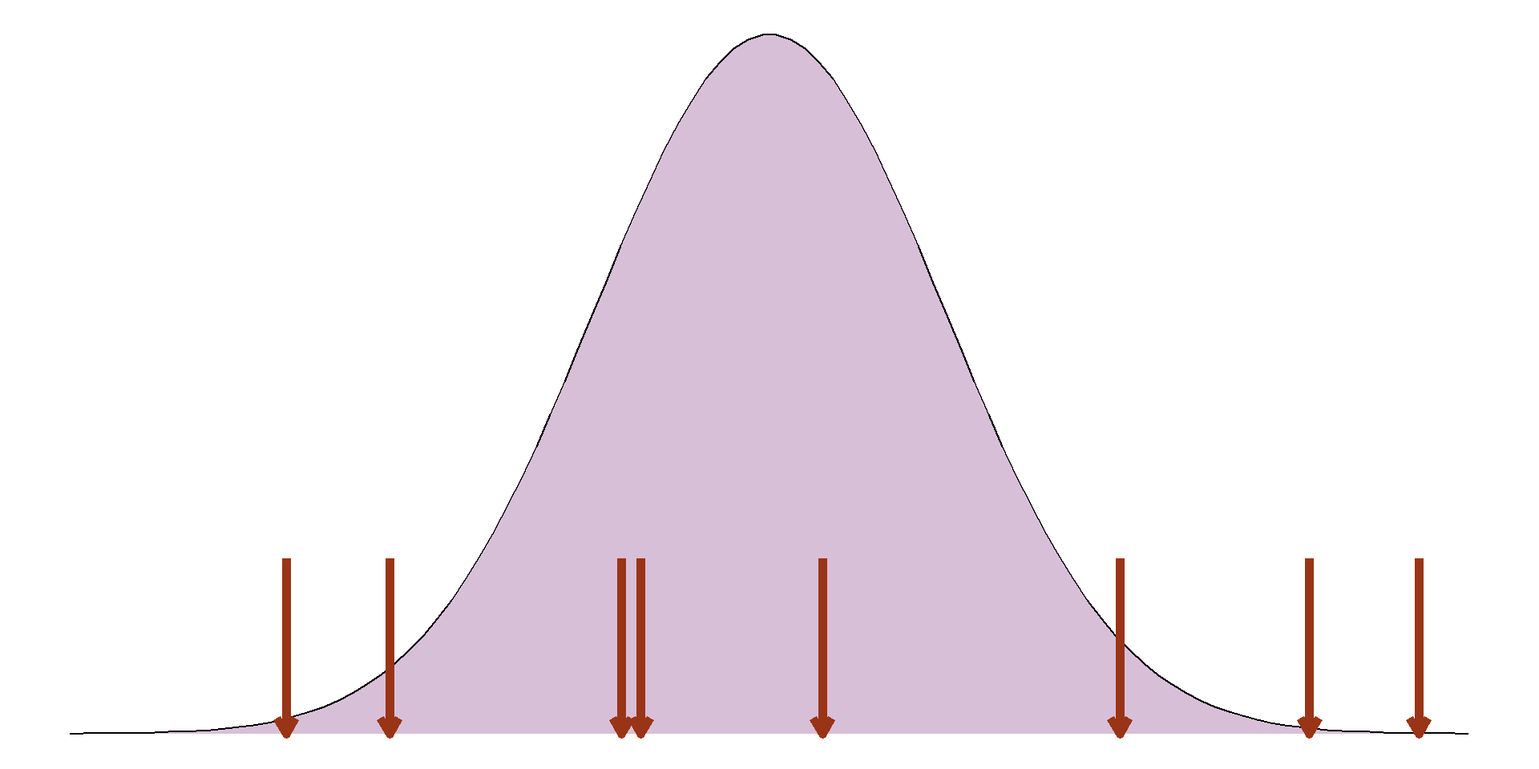
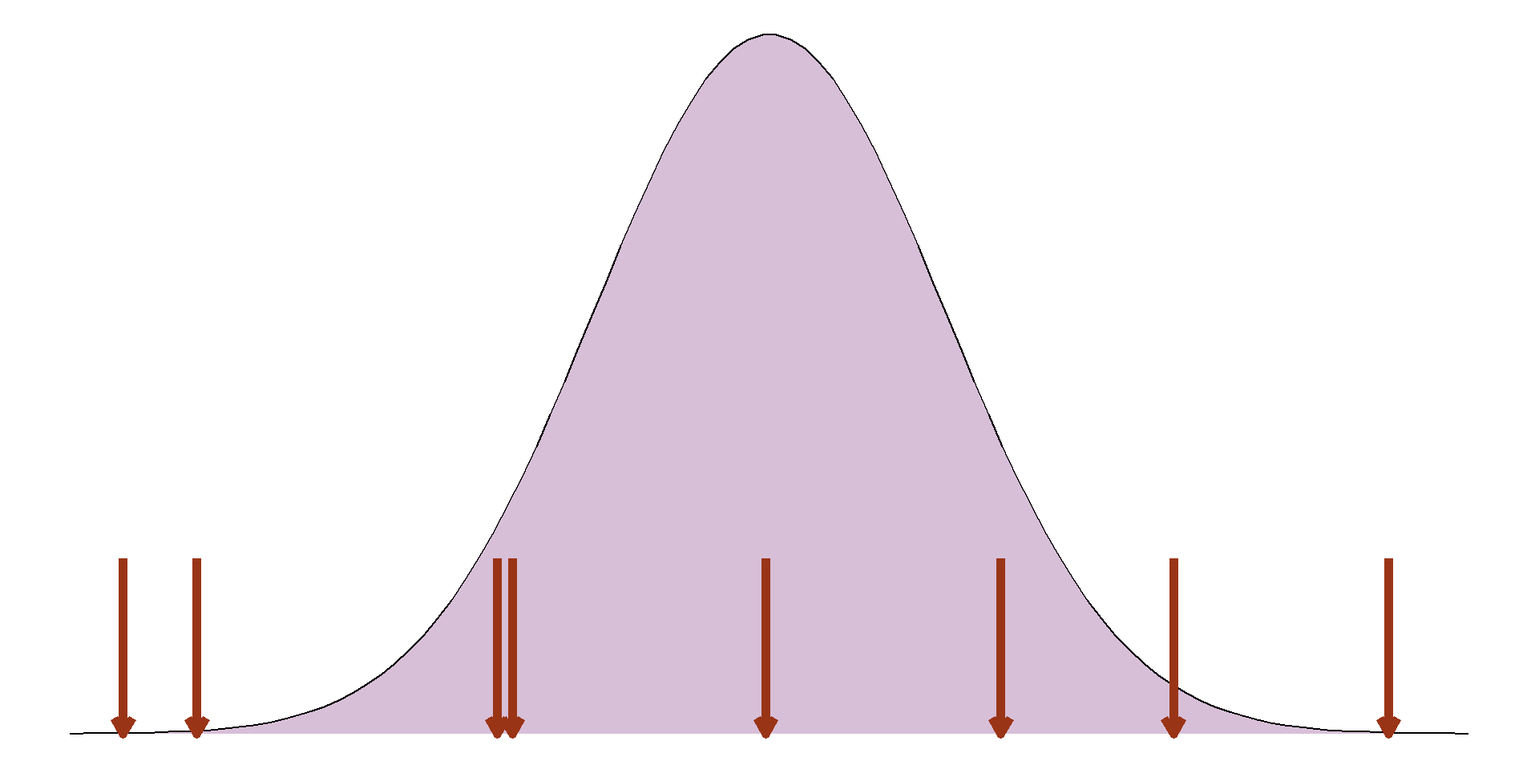
Add slides CLT

diff --git a/docs/part-2-slides.html b/docs/part-2-slides.html
@@ -516,6 +516,26 @@ Sophie Lee
 <section id="central-limit-theorem-10" class="slide level2">
 <h2>Central limit theorem</h2>
 
+<img data-src="part-2-slides_files/figure-revealjs/unnamed-chunk-12-1.png" class="quarto-figure quarto-figure-center r-stretch" width="960"></section>
+<section id="central-limit-theorem-11" class="slide level2">
+<h2>Central limit theorem</h2>
+
+<img data-src="part-2-slides_files/figure-revealjs/unnamed-chunk-13-1.png" class="quarto-figure quarto-figure-center r-stretch" width="960"></section>
+<section id="central-limit-theorem-12" class="slide level2">
+<h2>Central limit theorem</h2>
+
+<img data-src="part-2-slides_files/figure-revealjs/unnamed-chunk-14-1.png" class="quarto-figure quarto-figure-center r-stretch" width="960"></section>
+<section id="central-limit-theorem-13" class="slide level2">
+<h2>Central limit theorem</h2>
+
+<img data-src="part-2-slides_files/figure-revealjs/unnamed-chunk-15-1.png" class="quarto-figure quarto-figure-center r-stretch" width="960"></section>
+<section id="central-limit-theorem-14" class="slide level2">
+<h2>Central limit theorem</h2>
+
+<img data-src="part-2-slides_files/figure-revealjs/unnamed-chunk-16-1.png" class="quarto-figure quarto-figure-center r-stretch" width="960"></section>
+<section id="central-limit-theorem-15" class="slide level2">
+<h2>Central limit theorem</h2>
+
 <img data-src="part-2-slides_files/figure-revealjs/sd-to-se-1.png" class="quarto-figure quarto-figure-center r-stretch" width="960"></section>
 <section id="confidence-intervals" class="slide level2">
 <h2>Confidence intervals</h2>
@@ -774,15 +794,15 @@ Sophie Lee
 <section id="section-3" class="slide level2">
 <h2></h2>
 
-<img data-src="part-2-slides_files/figure-revealjs/unnamed-chunk-21-1.png" class="quarto-figure quarto-figure-center r-stretch" width="960"></section>
+<img data-src="part-2-slides_files/figure-revealjs/unnamed-chunk-26-1.png" class="quarto-figure quarto-figure-center r-stretch" width="960"></section>
 <section id="section-4" class="slide level2">
 <h2></h2>
 
-<img data-src="part-2-slides_files/figure-revealjs/unnamed-chunk-22-1.png" class="quarto-figure quarto-figure-center r-stretch" width="960"></section>
+<img data-src="part-2-slides_files/figure-revealjs/unnamed-chunk-27-1.png" class="quarto-figure quarto-figure-center r-stretch" width="960"></section>
 <section id="section-5" class="slide level2">
 <h2></h2>
 
-<img data-src="part-2-slides_files/figure-revealjs/unnamed-chunk-23-1.png" class="quarto-figure quarto-figure-center r-stretch" width="960"></section></section>
+<img data-src="part-2-slides_files/figure-revealjs/unnamed-chunk-28-1.png" class="quarto-figure quarto-figure-center r-stretch" width="960"></section></section>
 <section>
 <section id="section-6" class="title-slide slide level1 chapter-theme center">
 <h1></h1>
@@ -799,7 +819,7 @@ Sophie Lee
 <h2></h2>
 <div class="cell" data-layout-align="center">
 <div class="cell-output-display">
-<div class="countdown" id="timer_36ce9176" data-update-every="1" tabindex="0" style="top:0;right:0;font-size:100px;">
+<div class="countdown" id="timer_267225f5" data-update-every="1" tabindex="0" style="top:0;right:0;font-size:100px;">
 <div class="countdown-controls"><button class="countdown-bump-down">−</button><button class="countdown-bump-up">+</button></div>
 <code class="countdown-time"><span class="countdown-digits minutes">10</span><span class="countdown-digits colon">:</span><span class="countdown-digits seconds">00</span></code>
 </div>
@@ -972,7 +992,7 @@ Sophie Lee
 <p>Body mass = -5780.83 + 49.69 <span class="math inline">\(\times\)</span> flipper length</p>
 <div class="cell" data-layout-align="center">
 <div class="cell-output-display">
-<div class="tabwid"><style>.cl-3499b948{}.cl-346c0aac{font-family:'Arial';font-size:60pt;font-weight:bold;font-style:normal;text-decoration:none;color:rgba(34, 34, 34, 1.00);background-color:transparent;}.cl-346c0ae8{font-family:'Arial';font-size:48pt;font-weight:normal;font-style:normal;text-decoration:none;color:rgba(34, 34, 34, 1.00);background-color:transparent;}.cl-348b10d2{margin:0;text-align:left;border-bottom: 0 solid rgba(0, 0, 0, 1.00);border-top: 0 solid rgba(0, 0, 0, 1.00);border-left: 0 solid rgba(0, 0, 0, 1.00);border-right: 0 solid rgba(0, 0, 0, 1.00);padding-bottom:5pt;padding-top:5pt;padding-left:5pt;padding-right:5pt;line-height: 1;background-color:transparent;}.cl-348b10e6{margin:0;text-align:right;border-bottom: 0 solid rgba(0, 0, 0, 1.00);border-top: 0 solid rgba(0, 0, 0, 1.00);border-left: 0 solid rgba(0, 0, 0, 1.00);border-right: 0 solid rgba(0, 0, 0, 1.00);padding-bottom:5pt;padding-top:5pt;padding-left:5pt;padding-right:5pt;line-height: 1;background-color:transparent;}.cl-348b10fa{margin:0;text-align:left;border-bottom: 0 solid rgba(0, 0, 0, 1.00);border-top: 0 solid rgba(0, 0, 0, 1.00);border-left: 0 solid rgba(0, 0, 0, 1.00);border-right: 0 solid rgba(0, 0, 0, 1.00);padding-bottom:5pt;padding-top:5pt;padding-left:5pt;padding-right:5pt;line-height: 1.2;background-color:transparent;}.cl-348b10fb{margin:0;text-align:right;border-bottom: 0 solid rgba(0, 0, 0, 1.00);border-top: 0 solid rgba(0, 0, 0, 1.00);border-left: 0 solid rgba(0, 0, 0, 1.00);border-right: 0 solid rgba(0, 0, 0, 1.00);padding-bottom:5pt;padding-top:5pt;padding-left:5pt;padding-right:5pt;line-height: 1.2;background-color:transparent;}.cl-348b9e26{width:0.787in;background-color:rgba(253, 221, 182, 1.00);vertical-align: middle;border-bottom: 1.5pt solid rgba(102, 102, 102, 1.00);border-top: 1.5pt solid rgba(102, 102, 102, 1.00);border-left: 0 solid rgba(0, 0, 0, 1.00);border-right: 0 solid rgba(0, 0, 0, 1.00);margin-bottom:0;margin-top:0;margin-left:0;margin-right:0;}.cl-348b9e30{width:1.181in;background-color:rgba(253, 221, 182, 1.00);vertical-align: middle;border-bottom: 1.5pt solid rgba(102, 102, 102, 1.00);border-top: 1.5pt solid rgba(102, 102, 102, 1.00);border-left: 0 solid rgba(0, 0, 0, 1.00);border-right: 0 solid rgba(0, 0, 0, 1.00);margin-bottom:0;margin-top:0;margin-left:0;margin-right:0;}.cl-348b9e44{width:6.815in;background-color:rgba(253, 221, 182, 1.00);vertical-align: middle;border-bottom: 1.5pt solid rgba(102, 102, 102, 1.00);border-top: 1.5pt solid rgba(102, 102, 102, 1.00);border-left: 0 solid rgba(0, 0, 0, 1.00);border-right: 0 solid rgba(0, 0, 0, 1.00);margin-bottom:0;margin-top:0;margin-left:0;margin-right:0;}.cl-348b9e45{width:1.969in;background-color:rgba(253, 221, 182, 1.00);vertical-align: middle;border-bottom: 1.5pt solid rgba(102, 102, 102, 1.00);border-top: 1.5pt solid rgba(102, 102, 102, 1.00);border-left: 0 solid rgba(0, 0, 0, 1.00);border-right: 0 solid rgba(0, 0, 0, 1.00);margin-bottom:0;margin-top:0;margin-left:0;margin-right:0;}.cl-348b9e4e{width:0.787in;background-color:rgba(253, 221, 182, 1.00);vertical-align: middle;border-bottom: 0 solid rgba(0, 0, 0, 1.00);border-top: 0 solid rgba(0, 0, 0, 1.00);border-left: 0 solid rgba(0, 0, 0, 1.00);border-right: 0 solid rgba(0, 0, 0, 1.00);margin-bottom:0;margin-top:0;margin-left:0;margin-right:0;}.cl-348b9e4f{width:1.181in;background-color:rgba(253, 221, 182, 1.00);vertical-align: middle;border-bottom: 0 solid rgba(0, 0, 0, 1.00);border-top: 0 solid rgba(0, 0, 0, 1.00);border-left: 0 solid rgba(0, 0, 0, 1.00);border-right: 0 solid rgba(0, 0, 0, 1.00);margin-bottom:0;margin-top:0;margin-left:0;margin-right:0;}.cl-348b9e58{width:6.815in;background-color:rgba(253, 221, 182, 1.00);vertical-align: middle;border-bottom: 0 solid rgba(0, 0, 0, 1.00);border-top: 0 solid rgba(0, 0, 0, 1.00);border-left: 0 solid rgba(0, 0, 0, 1.00);border-right: 0 solid rgba(0, 0, 0, 1.00);margin-bottom:0;margin-top:0;margin-left:0;margin-right:0;}.cl-348b9e59{width:1.969in;background-color:rgba(253, 221, 182, 1.00);vertical-align: middle;border-bottom: 0 solid rgba(0, 0, 0, 1.00);border-top: 0 solid rgba(0, 0, 0, 1.00);border-left: 0 solid rgba(0, 0, 0, 1.00);border-right: 0 solid rgba(0, 0, 0, 1.00);margin-bottom:0;margin-top:0;margin-left:0;margin-right:0;}.cl-348b9e62{width:0.787in;background-color:rgba(253, 221, 182, 1.00);vertical-align: middle;border-bottom: 1.5pt solid rgba(102, 102, 102, 1.00);border-top: 0 solid rgba(0, 0, 0, 1.00);border-left: 0 solid rgba(0, 0, 0, 1.00);border-right: 0 solid rgba(0, 0, 0, 1.00);margin-bottom:0;margin-top:0;margin-left:0;margin-right:0;}.cl-348b9e6c{width:1.181in;background-color:rgba(253, 221, 182, 1.00);vertical-align: middle;border-bottom: 1.5pt solid rgba(102, 102, 102, 1.00);border-top: 0 solid rgba(0, 0, 0, 1.00);border-left: 0 solid rgba(0, 0, 0, 1.00);border-right: 0 solid rgba(0, 0, 0, 1.00);margin-bottom:0;margin-top:0;margin-left:0;margin-right:0;}.cl-348b9e6d{width:6.815in;background-color:rgba(253, 221, 182, 1.00);vertical-align: middle;border-bottom: 1.5pt solid rgba(102, 102, 102, 1.00);border-top: 0 solid rgba(0, 0, 0, 1.00);border-left: 0 solid rgba(0, 0, 0, 1.00);border-right: 0 solid rgba(0, 0, 0, 1.00);margin-bottom:0;margin-top:0;margin-left:0;margin-right:0;}.cl-348b9e76{width:1.969in;background-color:rgba(253, 221, 182, 1.00);vertical-align: middle;border-bottom: 1.5pt solid rgba(102, 102, 102, 1.00);border-top: 0 solid rgba(0, 0, 0, 1.00);border-left: 0 solid rgba(0, 0, 0, 1.00);border-right: 0 solid rgba(0, 0, 0, 1.00);margin-bottom:0;margin-top:0;margin-left:0;margin-right:0;}</style><table data-quarto-disable-processing="true" class="cl-3499b948"><thead><tr style="overflow-wrap:break-word;"><th class="cl-348b9e26"><p class="cl-348b10d2"><span class="cl-346c0aac"></span></p></th><th class="cl-348b9e30"><p class="cl-348b10e6"><span class="cl-346c0aac">Coefficient estimates</span></p></th><th class="cl-348b9e44"><p class="cl-348b10e6"><span class="cl-346c0aac">95% confidence </span><br><span class="cl-346c0aac">interval</span></p></th><th class="cl-348b9e45"><p class="cl-348b10e6"><span class="cl-346c0aac">p-value</span></p></th></tr></thead><tbody><tr style="overflow-wrap:break-word;"><td class="cl-348b9e4e"><p class="cl-348b10fa"><span class="cl-346c0ae8">Intercept</span></p></td><td class="cl-348b9e4f"><p class="cl-348b10fb"><span class="cl-346c0ae8">-5,780.83</span></p></td><td class="cl-348b9e58"><p class="cl-348b10fb"><span class="cl-346c0ae8">[-6382.36, -5179.3]</span></p></td><td class="cl-348b9e59"><p class="cl-348b10fb"><span class="cl-346c0ae8">&lt;0.001</span></p></td></tr><tr style="overflow-wrap:break-word;"><td class="cl-348b9e62"><p class="cl-348b10fa"><span class="cl-346c0ae8">Flipper length</span></p></td><td class="cl-348b9e6c"><p class="cl-348b10fb"><span class="cl-346c0ae8">49.69</span></p></td><td class="cl-348b9e6d"><p class="cl-348b10fb"><span class="cl-346c0ae8">[46.7, 52.67]</span></p></td><td class="cl-348b9e76"><p class="cl-348b10fb"><span class="cl-346c0ae8">&lt;0.001</span></p></td></tr></tbody></table></div>
+<div class="tabwid"><style>.cl-dc7405c2{}.cl-dc59c7ac{font-family:'Arial';font-size:60pt;font-weight:bold;font-style:normal;text-decoration:none;color:rgba(34, 34, 34, 1.00);background-color:transparent;}.cl-dc59c7d4{font-family:'Arial';font-size:48pt;font-weight:normal;font-style:normal;text-decoration:none;color:rgba(34, 34, 34, 1.00);background-color:transparent;}.cl-dc629b3e{margin:0;text-align:left;border-bottom: 0 solid rgba(0, 0, 0, 1.00);border-top: 0 solid rgba(0, 0, 0, 1.00);border-left: 0 solid rgba(0, 0, 0, 1.00);border-right: 0 solid rgba(0, 0, 0, 1.00);padding-bottom:5pt;padding-top:5pt;padding-left:5pt;padding-right:5pt;line-height: 1;background-color:transparent;}.cl-dc629b52{margin:0;text-align:right;border-bottom: 0 solid rgba(0, 0, 0, 1.00);border-top: 0 solid rgba(0, 0, 0, 1.00);border-left: 0 solid rgba(0, 0, 0, 1.00);border-right: 0 solid rgba(0, 0, 0, 1.00);padding-bottom:5pt;padding-top:5pt;padding-left:5pt;padding-right:5pt;line-height: 1;background-color:transparent;}.cl-dc629b5c{margin:0;text-align:left;border-bottom: 0 solid rgba(0, 0, 0, 1.00);border-top: 0 solid rgba(0, 0, 0, 1.00);border-left: 0 solid rgba(0, 0, 0, 1.00);border-right: 0 solid rgba(0, 0, 0, 1.00);padding-bottom:5pt;padding-top:5pt;padding-left:5pt;padding-right:5pt;line-height: 1.2;background-color:transparent;}.cl-dc629b66{margin:0;text-align:right;border-bottom: 0 solid rgba(0, 0, 0, 1.00);border-top: 0 solid rgba(0, 0, 0, 1.00);border-left: 0 solid rgba(0, 0, 0, 1.00);border-right: 0 solid rgba(0, 0, 0, 1.00);padding-bottom:5pt;padding-top:5pt;padding-left:5pt;padding-right:5pt;line-height: 1.2;background-color:transparent;}.cl-dc62fdd6{width:0.787in;background-color:rgba(253, 221, 182, 1.00);vertical-align: middle;border-bottom: 1.5pt solid rgba(102, 102, 102, 1.00);border-top: 1.5pt solid rgba(102, 102, 102, 1.00);border-left: 0 solid rgba(0, 0, 0, 1.00);border-right: 0 solid rgba(0, 0, 0, 1.00);margin-bottom:0;margin-top:0;margin-left:0;margin-right:0;}.cl-dc62fdea{width:1.181in;background-color:rgba(253, 221, 182, 1.00);vertical-align: middle;border-bottom: 1.5pt solid rgba(102, 102, 102, 1.00);border-top: 1.5pt solid rgba(102, 102, 102, 1.00);border-left: 0 solid rgba(0, 0, 0, 1.00);border-right: 0 solid rgba(0, 0, 0, 1.00);margin-bottom:0;margin-top:0;margin-left:0;margin-right:0;}.cl-dc62fdf4{width:6.815in;background-color:rgba(253, 221, 182, 1.00);vertical-align: middle;border-bottom: 1.5pt solid rgba(102, 102, 102, 1.00);border-top: 1.5pt solid rgba(102, 102, 102, 1.00);border-left: 0 solid rgba(0, 0, 0, 1.00);border-right: 0 solid rgba(0, 0, 0, 1.00);margin-bottom:0;margin-top:0;margin-left:0;margin-right:0;}.cl-dc62fdfe{width:1.969in;background-color:rgba(253, 221, 182, 1.00);vertical-align: middle;border-bottom: 1.5pt solid rgba(102, 102, 102, 1.00);border-top: 1.5pt solid rgba(102, 102, 102, 1.00);border-left: 0 solid rgba(0, 0, 0, 1.00);border-right: 0 solid rgba(0, 0, 0, 1.00);margin-bottom:0;margin-top:0;margin-left:0;margin-right:0;}.cl-dc62fe08{width:0.787in;background-color:rgba(253, 221, 182, 1.00);vertical-align: middle;border-bottom: 0 solid rgba(0, 0, 0, 1.00);border-top: 0 solid rgba(0, 0, 0, 1.00);border-left: 0 solid rgba(0, 0, 0, 1.00);border-right: 0 solid rgba(0, 0, 0, 1.00);margin-bottom:0;margin-top:0;margin-left:0;margin-right:0;}.cl-dc62fe12{width:1.181in;background-color:rgba(253, 221, 182, 1.00);vertical-align: middle;border-bottom: 0 solid rgba(0, 0, 0, 1.00);border-top: 0 solid rgba(0, 0, 0, 1.00);border-left: 0 solid rgba(0, 0, 0, 1.00);border-right: 0 solid rgba(0, 0, 0, 1.00);margin-bottom:0;margin-top:0;margin-left:0;margin-right:0;}.cl-dc62fe1c{width:6.815in;background-color:rgba(253, 221, 182, 1.00);vertical-align: middle;border-bottom: 0 solid rgba(0, 0, 0, 1.00);border-top: 0 solid rgba(0, 0, 0, 1.00);border-left: 0 solid rgba(0, 0, 0, 1.00);border-right: 0 solid rgba(0, 0, 0, 1.00);margin-bottom:0;margin-top:0;margin-left:0;margin-right:0;}.cl-dc62fe1d{width:1.969in;background-color:rgba(253, 221, 182, 1.00);vertical-align: middle;border-bottom: 0 solid rgba(0, 0, 0, 1.00);border-top: 0 solid rgba(0, 0, 0, 1.00);border-left: 0 solid rgba(0, 0, 0, 1.00);border-right: 0 solid rgba(0, 0, 0, 1.00);margin-bottom:0;margin-top:0;margin-left:0;margin-right:0;}.cl-dc62fe26{width:0.787in;background-color:rgba(253, 221, 182, 1.00);vertical-align: middle;border-bottom: 1.5pt solid rgba(102, 102, 102, 1.00);border-top: 0 solid rgba(0, 0, 0, 1.00);border-left: 0 solid rgba(0, 0, 0, 1.00);border-right: 0 solid rgba(0, 0, 0, 1.00);margin-bottom:0;margin-top:0;margin-left:0;margin-right:0;}.cl-dc62fe30{width:1.181in;background-color:rgba(253, 221, 182, 1.00);vertical-align: middle;border-bottom: 1.5pt solid rgba(102, 102, 102, 1.00);border-top: 0 solid rgba(0, 0, 0, 1.00);border-left: 0 solid rgba(0, 0, 0, 1.00);border-right: 0 solid rgba(0, 0, 0, 1.00);margin-bottom:0;margin-top:0;margin-left:0;margin-right:0;}.cl-dc62fe31{width:6.815in;background-color:rgba(253, 221, 182, 1.00);vertical-align: middle;border-bottom: 1.5pt solid rgba(102, 102, 102, 1.00);border-top: 0 solid rgba(0, 0, 0, 1.00);border-left: 0 solid rgba(0, 0, 0, 1.00);border-right: 0 solid rgba(0, 0, 0, 1.00);margin-bottom:0;margin-top:0;margin-left:0;margin-right:0;}.cl-dc62fe3a{width:1.969in;background-color:rgba(253, 221, 182, 1.00);vertical-align: middle;border-bottom: 1.5pt solid rgba(102, 102, 102, 1.00);border-top: 0 solid rgba(0, 0, 0, 1.00);border-left: 0 solid rgba(0, 0, 0, 1.00);border-right: 0 solid rgba(0, 0, 0, 1.00);margin-bottom:0;margin-top:0;margin-left:0;margin-right:0;}</style><table data-quarto-disable-processing="true" class="cl-dc7405c2"><thead><tr style="overflow-wrap:break-word;"><th class="cl-dc62fdd6"><p class="cl-dc629b3e"><span class="cl-dc59c7ac"></span></p></th><th class="cl-dc62fdea"><p class="cl-dc629b52"><span class="cl-dc59c7ac">Coefficient estimates</span></p></th><th class="cl-dc62fdf4"><p class="cl-dc629b52"><span class="cl-dc59c7ac">95% confidence </span><br><span class="cl-dc59c7ac">interval</span></p></th><th class="cl-dc62fdfe"><p class="cl-dc629b52"><span class="cl-dc59c7ac">p-value</span></p></th></tr></thead><tbody><tr style="overflow-wrap:break-word;"><td class="cl-dc62fe08"><p class="cl-dc629b5c"><span class="cl-dc59c7d4">Intercept</span></p></td><td class="cl-dc62fe12"><p class="cl-dc629b66"><span class="cl-dc59c7d4">-5,780.83</span></p></td><td class="cl-dc62fe1c"><p class="cl-dc629b66"><span class="cl-dc59c7d4">[-6382.36, -5179.3]</span></p></td><td class="cl-dc62fe1d"><p class="cl-dc629b66"><span class="cl-dc59c7d4">&lt;0.001</span></p></td></tr><tr style="overflow-wrap:break-word;"><td class="cl-dc62fe26"><p class="cl-dc629b5c"><span class="cl-dc59c7d4">Flipper length</span></p></td><td class="cl-dc62fe30"><p class="cl-dc629b66"><span class="cl-dc59c7d4">49.69</span></p></td><td class="cl-dc62fe31"><p class="cl-dc629b66"><span class="cl-dc59c7d4">[46.7, 52.67]</span></p></td><td class="cl-dc62fe3a"><p class="cl-dc629b66"><span class="cl-dc59c7d4">&lt;0.001</span></p></td></tr></tbody></table></div>
 </div>
 </div>
 </section>
@@ -1045,7 +1065,7 @@ Sophie Lee
 <p>Body mass = -5410.3 + 46.98 <span class="math inline">\(\times\)</span> flipper length + 347.85 <span class="math inline">\(\times\)</span> male</p>
 <div class="cell" data-layout-align="center">
 <div class="cell-output-display">
-<div class="tabwid"><style>.cl-36922dca{}.cl-367d98ba{font-family:'Arial';font-size:60pt;font-weight:bold;font-style:normal;text-decoration:none;color:rgba(34, 34, 34, 1.00);background-color:transparent;}.cl-367d98ce{font-family:'Arial';font-size:48pt;font-weight:normal;font-style:normal;text-decoration:none;color:rgba(34, 34, 34, 1.00);background-color:transparent;}.cl-36854a24{margin:0;text-align:left;border-bottom: 0 solid rgba(0, 0, 0, 1.00);border-top: 0 solid rgba(0, 0, 0, 1.00);border-left: 0 solid rgba(0, 0, 0, 1.00);border-right: 0 solid rgba(0, 0, 0, 1.00);padding-bottom:5pt;padding-top:5pt;padding-left:5pt;padding-right:5pt;line-height: 1;background-color:transparent;}.cl-36854a38{margin:0;text-align:right;border-bottom: 0 solid rgba(0, 0, 0, 1.00);border-top: 0 solid rgba(0, 0, 0, 1.00);border-left: 0 solid rgba(0, 0, 0, 1.00);border-right: 0 solid rgba(0, 0, 0, 1.00);padding-bottom:5pt;padding-top:5pt;padding-left:5pt;padding-right:5pt;line-height: 1;background-color:transparent;}.cl-36854a42{margin:0;text-align:left;border-bottom: 0 solid rgba(0, 0, 0, 1.00);border-top: 0 solid rgba(0, 0, 0, 1.00);border-left: 0 solid rgba(0, 0, 0, 1.00);border-right: 0 solid rgba(0, 0, 0, 1.00);padding-bottom:5pt;padding-top:5pt;padding-left:5pt;padding-right:5pt;line-height: 1.6;background-color:transparent;}.cl-36854a43{margin:0;text-align:right;border-bottom: 0 solid rgba(0, 0, 0, 1.00);border-top: 0 solid rgba(0, 0, 0, 1.00);border-left: 0 solid rgba(0, 0, 0, 1.00);border-right: 0 solid rgba(0, 0, 0, 1.00);padding-bottom:5pt;padding-top:5pt;padding-left:5pt;padding-right:5pt;line-height: 1.6;background-color:transparent;}.cl-36858750{width:0.787in;background-color:rgba(253, 221, 182, 1.00);vertical-align: middle;border-bottom: 1.5pt solid rgba(102, 102, 102, 1.00);border-top: 1.5pt solid rgba(102, 102, 102, 1.00);border-left: 0 solid rgba(0, 0, 0, 1.00);border-right: 0 solid rgba(0, 0, 0, 1.00);margin-bottom:0;margin-top:0;margin-left:0;margin-right:0;}.cl-36858764{width:1.181in;background-color:rgba(253, 221, 182, 1.00);vertical-align: middle;border-bottom: 1.5pt solid rgba(102, 102, 102, 1.00);border-top: 1.5pt solid rgba(102, 102, 102, 1.00);border-left: 0 solid rgba(0, 0, 0, 1.00);border-right: 0 solid rgba(0, 0, 0, 1.00);margin-bottom:0;margin-top:0;margin-left:0;margin-right:0;}.cl-36858765{width:6.815in;background-color:rgba(253, 221, 182, 1.00);vertical-align: middle;border-bottom: 1.5pt solid rgba(102, 102, 102, 1.00);border-top: 1.5pt solid rgba(102, 102, 102, 1.00);border-left: 0 solid rgba(0, 0, 0, 1.00);border-right: 0 solid rgba(0, 0, 0, 1.00);margin-bottom:0;margin-top:0;margin-left:0;margin-right:0;}.cl-3685876e{width:1.969in;background-color:rgba(253, 221, 182, 1.00);vertical-align: middle;border-bottom: 1.5pt solid rgba(102, 102, 102, 1.00);border-top: 1.5pt solid rgba(102, 102, 102, 1.00);border-left: 0 solid rgba(0, 0, 0, 1.00);border-right: 0 solid rgba(0, 0, 0, 1.00);margin-bottom:0;margin-top:0;margin-left:0;margin-right:0;}.cl-36858778{width:0.787in;background-color:rgba(253, 221, 182, 1.00);vertical-align: middle;border-bottom: 0 solid rgba(0, 0, 0, 1.00);border-top: 0 solid rgba(0, 0, 0, 1.00);border-left: 0 solid rgba(0, 0, 0, 1.00);border-right: 0 solid rgba(0, 0, 0, 1.00);margin-bottom:0;margin-top:0;margin-left:0;margin-right:0;}.cl-36858782{width:1.181in;background-color:rgba(253, 221, 182, 1.00);vertical-align: middle;border-bottom: 0 solid rgba(0, 0, 0, 1.00);border-top: 0 solid rgba(0, 0, 0, 1.00);border-left: 0 solid rgba(0, 0, 0, 1.00);border-right: 0 solid rgba(0, 0, 0, 1.00);margin-bottom:0;margin-top:0;margin-left:0;margin-right:0;}.cl-3685878c{width:6.815in;background-color:rgba(253, 221, 182, 1.00);vertical-align: middle;border-bottom: 0 solid rgba(0, 0, 0, 1.00);border-top: 0 solid rgba(0, 0, 0, 1.00);border-left: 0 solid rgba(0, 0, 0, 1.00);border-right: 0 solid rgba(0, 0, 0, 1.00);margin-bottom:0;margin-top:0;margin-left:0;margin-right:0;}.cl-3685878d{width:1.969in;background-color:rgba(253, 221, 182, 1.00);vertical-align: middle;border-bottom: 0 solid rgba(0, 0, 0, 1.00);border-top: 0 solid rgba(0, 0, 0, 1.00);border-left: 0 solid rgba(0, 0, 0, 1.00);border-right: 0 solid rgba(0, 0, 0, 1.00);margin-bottom:0;margin-top:0;margin-left:0;margin-right:0;}.cl-36858796{width:0.787in;background-color:rgba(253, 221, 182, 1.00);vertical-align: middle;border-bottom: 0 solid rgba(0, 0, 0, 1.00);border-top: 0 solid rgba(0, 0, 0, 1.00);border-left: 0 solid rgba(0, 0, 0, 1.00);border-right: 0 solid rgba(0, 0, 0, 1.00);margin-bottom:0;margin-top:0;margin-left:0;margin-right:0;}.cl-368587a0{width:1.181in;background-color:rgba(253, 221, 182, 1.00);vertical-align: middle;border-bottom: 0 solid rgba(0, 0, 0, 1.00);border-top: 0 solid rgba(0, 0, 0, 1.00);border-left: 0 solid rgba(0, 0, 0, 1.00);border-right: 0 solid rgba(0, 0, 0, 1.00);margin-bottom:0;margin-top:0;margin-left:0;margin-right:0;}.cl-368587a1{width:6.815in;background-color:rgba(253, 221, 182, 1.00);vertical-align: middle;border-bottom: 0 solid rgba(0, 0, 0, 1.00);border-top: 0 solid rgba(0, 0, 0, 1.00);border-left: 0 solid rgba(0, 0, 0, 1.00);border-right: 0 solid rgba(0, 0, 0, 1.00);margin-bottom:0;margin-top:0;margin-left:0;margin-right:0;}.cl-368587aa{width:1.969in;background-color:rgba(253, 221, 182, 1.00);vertical-align: middle;border-bottom: 0 solid rgba(0, 0, 0, 1.00);border-top: 0 solid rgba(0, 0, 0, 1.00);border-left: 0 solid rgba(0, 0, 0, 1.00);border-right: 0 solid rgba(0, 0, 0, 1.00);margin-bottom:0;margin-top:0;margin-left:0;margin-right:0;}.cl-368587b4{width:0.787in;background-color:rgba(253, 221, 182, 1.00);vertical-align: middle;border-bottom: 1.5pt solid rgba(102, 102, 102, 1.00);border-top: 0 solid rgba(0, 0, 0, 1.00);border-left: 0 solid rgba(0, 0, 0, 1.00);border-right: 0 solid rgba(0, 0, 0, 1.00);margin-bottom:0;margin-top:0;margin-left:0;margin-right:0;}.cl-368587b5{width:1.181in;background-color:rgba(253, 221, 182, 1.00);vertical-align: middle;border-bottom: 1.5pt solid rgba(102, 102, 102, 1.00);border-top: 0 solid rgba(0, 0, 0, 1.00);border-left: 0 solid rgba(0, 0, 0, 1.00);border-right: 0 solid rgba(0, 0, 0, 1.00);margin-bottom:0;margin-top:0;margin-left:0;margin-right:0;}.cl-368587be{width:6.815in;background-color:rgba(253, 221, 182, 1.00);vertical-align: middle;border-bottom: 1.5pt solid rgba(102, 102, 102, 1.00);border-top: 0 solid rgba(0, 0, 0, 1.00);border-left: 0 solid rgba(0, 0, 0, 1.00);border-right: 0 solid rgba(0, 0, 0, 1.00);margin-bottom:0;margin-top:0;margin-left:0;margin-right:0;}.cl-36858818{width:1.969in;background-color:rgba(253, 221, 182, 1.00);vertical-align: middle;border-bottom: 1.5pt solid rgba(102, 102, 102, 1.00);border-top: 0 solid rgba(0, 0, 0, 1.00);border-left: 0 solid rgba(0, 0, 0, 1.00);border-right: 0 solid rgba(0, 0, 0, 1.00);margin-bottom:0;margin-top:0;margin-left:0;margin-right:0;}</style><table data-quarto-disable-processing="true" class="cl-36922dca"><thead><tr style="overflow-wrap:break-word;"><th class="cl-36858750"><p class="cl-36854a24"><span class="cl-367d98ba"></span></p></th><th class="cl-36858764"><p class="cl-36854a38"><span class="cl-367d98ba">Coefficient estimates</span></p></th><th class="cl-36858765"><p class="cl-36854a38"><span class="cl-367d98ba">95% confidence </span><br><span class="cl-367d98ba">interval</span></p></th><th class="cl-3685876e"><p class="cl-36854a38"><span class="cl-367d98ba">p-value</span></p></th></tr></thead><tbody><tr style="overflow-wrap:break-word;"><td class="cl-36858778"><p class="cl-36854a42"><span class="cl-367d98ce">Intercept</span></p></td><td class="cl-36858782"><p class="cl-36854a43"><span class="cl-367d98ce">-5,410.30</span></p></td><td class="cl-3685878c"><p class="cl-36854a43"><span class="cl-367d98ce">[-5972.52, -4848.09]</span></p></td><td class="cl-3685878d"><p class="cl-36854a43"><span class="cl-367d98ce">&lt;0.001</span></p></td></tr><tr style="overflow-wrap:break-word;"><td class="cl-36858796"><p class="cl-36854a42"><span class="cl-367d98ce">Flipper length</span></p></td><td class="cl-368587a0"><p class="cl-36854a43"><span class="cl-367d98ce">46.98</span></p></td><td class="cl-368587a1"><p class="cl-36854a43"><span class="cl-367d98ce">[44.15, 49.82]</span></p></td><td class="cl-368587aa"><p class="cl-36854a43"><span class="cl-367d98ce">&lt;0.001</span></p></td></tr><tr style="overflow-wrap:break-word;"><td class="cl-368587b4"><p class="cl-36854a42"><span class="cl-367d98ce">Male</span></p></td><td class="cl-368587b5"><p class="cl-36854a43"><span class="cl-367d98ce">347.85</span></p></td><td class="cl-368587be"><p class="cl-36854a43"><span class="cl-367d98ce">[268.49, 427.21]</span></p></td><td class="cl-36858818"><p class="cl-36854a43"><span class="cl-367d98ce">&lt;0.001</span></p></td></tr></tbody></table></div>
+<div class="tabwid"><style>.cl-deaa5382{}.cl-de91699e{font-family:'Arial';font-size:60pt;font-weight:bold;font-style:normal;text-decoration:none;color:rgba(34, 34, 34, 1.00);background-color:transparent;}.cl-de9169bc{font-family:'Arial';font-size:48pt;font-weight:normal;font-style:normal;text-decoration:none;color:rgba(34, 34, 34, 1.00);background-color:transparent;}.cl-de9ac520{margin:0;text-align:left;border-bottom: 0 solid rgba(0, 0, 0, 1.00);border-top: 0 solid rgba(0, 0, 0, 1.00);border-left: 0 solid rgba(0, 0, 0, 1.00);border-right: 0 solid rgba(0, 0, 0, 1.00);padding-bottom:5pt;padding-top:5pt;padding-left:5pt;padding-right:5pt;line-height: 1;background-color:transparent;}.cl-de9ac53e{margin:0;text-align:right;border-bottom: 0 solid rgba(0, 0, 0, 1.00);border-top: 0 solid rgba(0, 0, 0, 1.00);border-left: 0 solid rgba(0, 0, 0, 1.00);border-right: 0 solid rgba(0, 0, 0, 1.00);padding-bottom:5pt;padding-top:5pt;padding-left:5pt;padding-right:5pt;line-height: 1;background-color:transparent;}.cl-de9ac548{margin:0;text-align:left;border-bottom: 0 solid rgba(0, 0, 0, 1.00);border-top: 0 solid rgba(0, 0, 0, 1.00);border-left: 0 solid rgba(0, 0, 0, 1.00);border-right: 0 solid rgba(0, 0, 0, 1.00);padding-bottom:5pt;padding-top:5pt;padding-left:5pt;padding-right:5pt;line-height: 1.6;background-color:transparent;}.cl-de9ac549{margin:0;text-align:right;border-bottom: 0 solid rgba(0, 0, 0, 1.00);border-top: 0 solid rgba(0, 0, 0, 1.00);border-left: 0 solid rgba(0, 0, 0, 1.00);border-right: 0 solid rgba(0, 0, 0, 1.00);padding-bottom:5pt;padding-top:5pt;padding-left:5pt;padding-right:5pt;line-height: 1.6;background-color:transparent;}.cl-de9bdfa0{width:0.787in;background-color:rgba(253, 221, 182, 1.00);vertical-align: middle;border-bottom: 1.5pt solid rgba(102, 102, 102, 1.00);border-top: 1.5pt solid rgba(102, 102, 102, 1.00);border-left: 0 solid rgba(0, 0, 0, 1.00);border-right: 0 solid rgba(0, 0, 0, 1.00);margin-bottom:0;margin-top:0;margin-left:0;margin-right:0;}.cl-de9bdfbe{width:1.181in;background-color:rgba(253, 221, 182, 1.00);vertical-align: middle;border-bottom: 1.5pt solid rgba(102, 102, 102, 1.00);border-top: 1.5pt solid rgba(102, 102, 102, 1.00);border-left: 0 solid rgba(0, 0, 0, 1.00);border-right: 0 solid rgba(0, 0, 0, 1.00);margin-bottom:0;margin-top:0;margin-left:0;margin-right:0;}.cl-de9bdfbf{width:6.815in;background-color:rgba(253, 221, 182, 1.00);vertical-align: middle;border-bottom: 1.5pt solid rgba(102, 102, 102, 1.00);border-top: 1.5pt solid rgba(102, 102, 102, 1.00);border-left: 0 solid rgba(0, 0, 0, 1.00);border-right: 0 solid rgba(0, 0, 0, 1.00);margin-bottom:0;margin-top:0;margin-left:0;margin-right:0;}.cl-de9bdfc8{width:1.969in;background-color:rgba(253, 221, 182, 1.00);vertical-align: middle;border-bottom: 1.5pt solid rgba(102, 102, 102, 1.00);border-top: 1.5pt solid rgba(102, 102, 102, 1.00);border-left: 0 solid rgba(0, 0, 0, 1.00);border-right: 0 solid rgba(0, 0, 0, 1.00);margin-bottom:0;margin-top:0;margin-left:0;margin-right:0;}.cl-de9bdfd2{width:0.787in;background-color:rgba(253, 221, 182, 1.00);vertical-align: middle;border-bottom: 0 solid rgba(0, 0, 0, 1.00);border-top: 0 solid rgba(0, 0, 0, 1.00);border-left: 0 solid rgba(0, 0, 0, 1.00);border-right: 0 solid rgba(0, 0, 0, 1.00);margin-bottom:0;margin-top:0;margin-left:0;margin-right:0;}.cl-de9bdfdc{width:1.181in;background-color:rgba(253, 221, 182, 1.00);vertical-align: middle;border-bottom: 0 solid rgba(0, 0, 0, 1.00);border-top: 0 solid rgba(0, 0, 0, 1.00);border-left: 0 solid rgba(0, 0, 0, 1.00);border-right: 0 solid rgba(0, 0, 0, 1.00);margin-bottom:0;margin-top:0;margin-left:0;margin-right:0;}.cl-de9bdfe6{width:6.815in;background-color:rgba(253, 221, 182, 1.00);vertical-align: middle;border-bottom: 0 solid rgba(0, 0, 0, 1.00);border-top: 0 solid rgba(0, 0, 0, 1.00);border-left: 0 solid rgba(0, 0, 0, 1.00);border-right: 0 solid rgba(0, 0, 0, 1.00);margin-bottom:0;margin-top:0;margin-left:0;margin-right:0;}.cl-de9bdff0{width:1.969in;background-color:rgba(253, 221, 182, 1.00);vertical-align: middle;border-bottom: 0 solid rgba(0, 0, 0, 1.00);border-top: 0 solid rgba(0, 0, 0, 1.00);border-left: 0 solid rgba(0, 0, 0, 1.00);border-right: 0 solid rgba(0, 0, 0, 1.00);margin-bottom:0;margin-top:0;margin-left:0;margin-right:0;}.cl-de9bdffa{width:0.787in;background-color:rgba(253, 221, 182, 1.00);vertical-align: middle;border-bottom: 0 solid rgba(0, 0, 0, 1.00);border-top: 0 solid rgba(0, 0, 0, 1.00);border-left: 0 solid rgba(0, 0, 0, 1.00);border-right: 0 solid rgba(0, 0, 0, 1.00);margin-bottom:0;margin-top:0;margin-left:0;margin-right:0;}.cl-de9bdffb{width:1.181in;background-color:rgba(253, 221, 182, 1.00);vertical-align: middle;border-bottom: 0 solid rgba(0, 0, 0, 1.00);border-top: 0 solid rgba(0, 0, 0, 1.00);border-left: 0 solid rgba(0, 0, 0, 1.00);border-right: 0 solid rgba(0, 0, 0, 1.00);margin-bottom:0;margin-top:0;margin-left:0;margin-right:0;}.cl-de9be004{width:6.815in;background-color:rgba(253, 221, 182, 1.00);vertical-align: middle;border-bottom: 0 solid rgba(0, 0, 0, 1.00);border-top: 0 solid rgba(0, 0, 0, 1.00);border-left: 0 solid rgba(0, 0, 0, 1.00);border-right: 0 solid rgba(0, 0, 0, 1.00);margin-bottom:0;margin-top:0;margin-left:0;margin-right:0;}.cl-de9be00e{width:1.969in;background-color:rgba(253, 221, 182, 1.00);vertical-align: middle;border-bottom: 0 solid rgba(0, 0, 0, 1.00);border-top: 0 solid rgba(0, 0, 0, 1.00);border-left: 0 solid rgba(0, 0, 0, 1.00);border-right: 0 solid rgba(0, 0, 0, 1.00);margin-bottom:0;margin-top:0;margin-left:0;margin-right:0;}.cl-de9be00f{width:0.787in;background-color:rgba(253, 221, 182, 1.00);vertical-align: middle;border-bottom: 1.5pt solid rgba(102, 102, 102, 1.00);border-top: 0 solid rgba(0, 0, 0, 1.00);border-left: 0 solid rgba(0, 0, 0, 1.00);border-right: 0 solid rgba(0, 0, 0, 1.00);margin-bottom:0;margin-top:0;margin-left:0;margin-right:0;}.cl-de9be018{width:1.181in;background-color:rgba(253, 221, 182, 1.00);vertical-align: middle;border-bottom: 1.5pt solid rgba(102, 102, 102, 1.00);border-top: 0 solid rgba(0, 0, 0, 1.00);border-left: 0 solid rgba(0, 0, 0, 1.00);border-right: 0 solid rgba(0, 0, 0, 1.00);margin-bottom:0;margin-top:0;margin-left:0;margin-right:0;}.cl-de9be022{width:6.815in;background-color:rgba(253, 221, 182, 1.00);vertical-align: middle;border-bottom: 1.5pt solid rgba(102, 102, 102, 1.00);border-top: 0 solid rgba(0, 0, 0, 1.00);border-left: 0 solid rgba(0, 0, 0, 1.00);border-right: 0 solid rgba(0, 0, 0, 1.00);margin-bottom:0;margin-top:0;margin-left:0;margin-right:0;}.cl-de9be023{width:1.969in;background-color:rgba(253, 221, 182, 1.00);vertical-align: middle;border-bottom: 1.5pt solid rgba(102, 102, 102, 1.00);border-top: 0 solid rgba(0, 0, 0, 1.00);border-left: 0 solid rgba(0, 0, 0, 1.00);border-right: 0 solid rgba(0, 0, 0, 1.00);margin-bottom:0;margin-top:0;margin-left:0;margin-right:0;}</style><table data-quarto-disable-processing="true" class="cl-deaa5382"><thead><tr style="overflow-wrap:break-word;"><th class="cl-de9bdfa0"><p class="cl-de9ac520"><span class="cl-de91699e"></span></p></th><th class="cl-de9bdfbe"><p class="cl-de9ac53e"><span class="cl-de91699e">Coefficient estimates</span></p></th><th class="cl-de9bdfbf"><p class="cl-de9ac53e"><span class="cl-de91699e">95% confidence </span><br><span class="cl-de91699e">interval</span></p></th><th class="cl-de9bdfc8"><p class="cl-de9ac53e"><span class="cl-de91699e">p-value</span></p></th></tr></thead><tbody><tr style="overflow-wrap:break-word;"><td class="cl-de9bdfd2"><p class="cl-de9ac548"><span class="cl-de9169bc">Intercept</span></p></td><td class="cl-de9bdfdc"><p class="cl-de9ac549"><span class="cl-de9169bc">-5,410.30</span></p></td><td class="cl-de9bdfe6"><p class="cl-de9ac549"><span class="cl-de9169bc">[-5972.52, -4848.09]</span></p></td><td class="cl-de9bdff0"><p class="cl-de9ac549"><span class="cl-de9169bc">&lt;0.001</span></p></td></tr><tr style="overflow-wrap:break-word;"><td class="cl-de9bdffa"><p class="cl-de9ac548"><span class="cl-de9169bc">Flipper length</span></p></td><td class="cl-de9bdffb"><p class="cl-de9ac549"><span class="cl-de9169bc">46.98</span></p></td><td class="cl-de9be004"><p class="cl-de9ac549"><span class="cl-de9169bc">[44.15, 49.82]</span></p></td><td class="cl-de9be00e"><p class="cl-de9ac549"><span class="cl-de9169bc">&lt;0.001</span></p></td></tr><tr style="overflow-wrap:break-word;"><td class="cl-de9be00f"><p class="cl-de9ac548"><span class="cl-de9169bc">Male</span></p></td><td class="cl-de9be018"><p class="cl-de9ac549"><span class="cl-de9169bc">347.85</span></p></td><td class="cl-de9be022"><p class="cl-de9ac549"><span class="cl-de9169bc">[268.49, 427.21]</span></p></td><td class="cl-de9be023"><p class="cl-de9ac549"><span class="cl-de9169bc">&lt;0.001</span></p></td></tr></tbody></table></div>
 </div>
 </div>
 </section>
